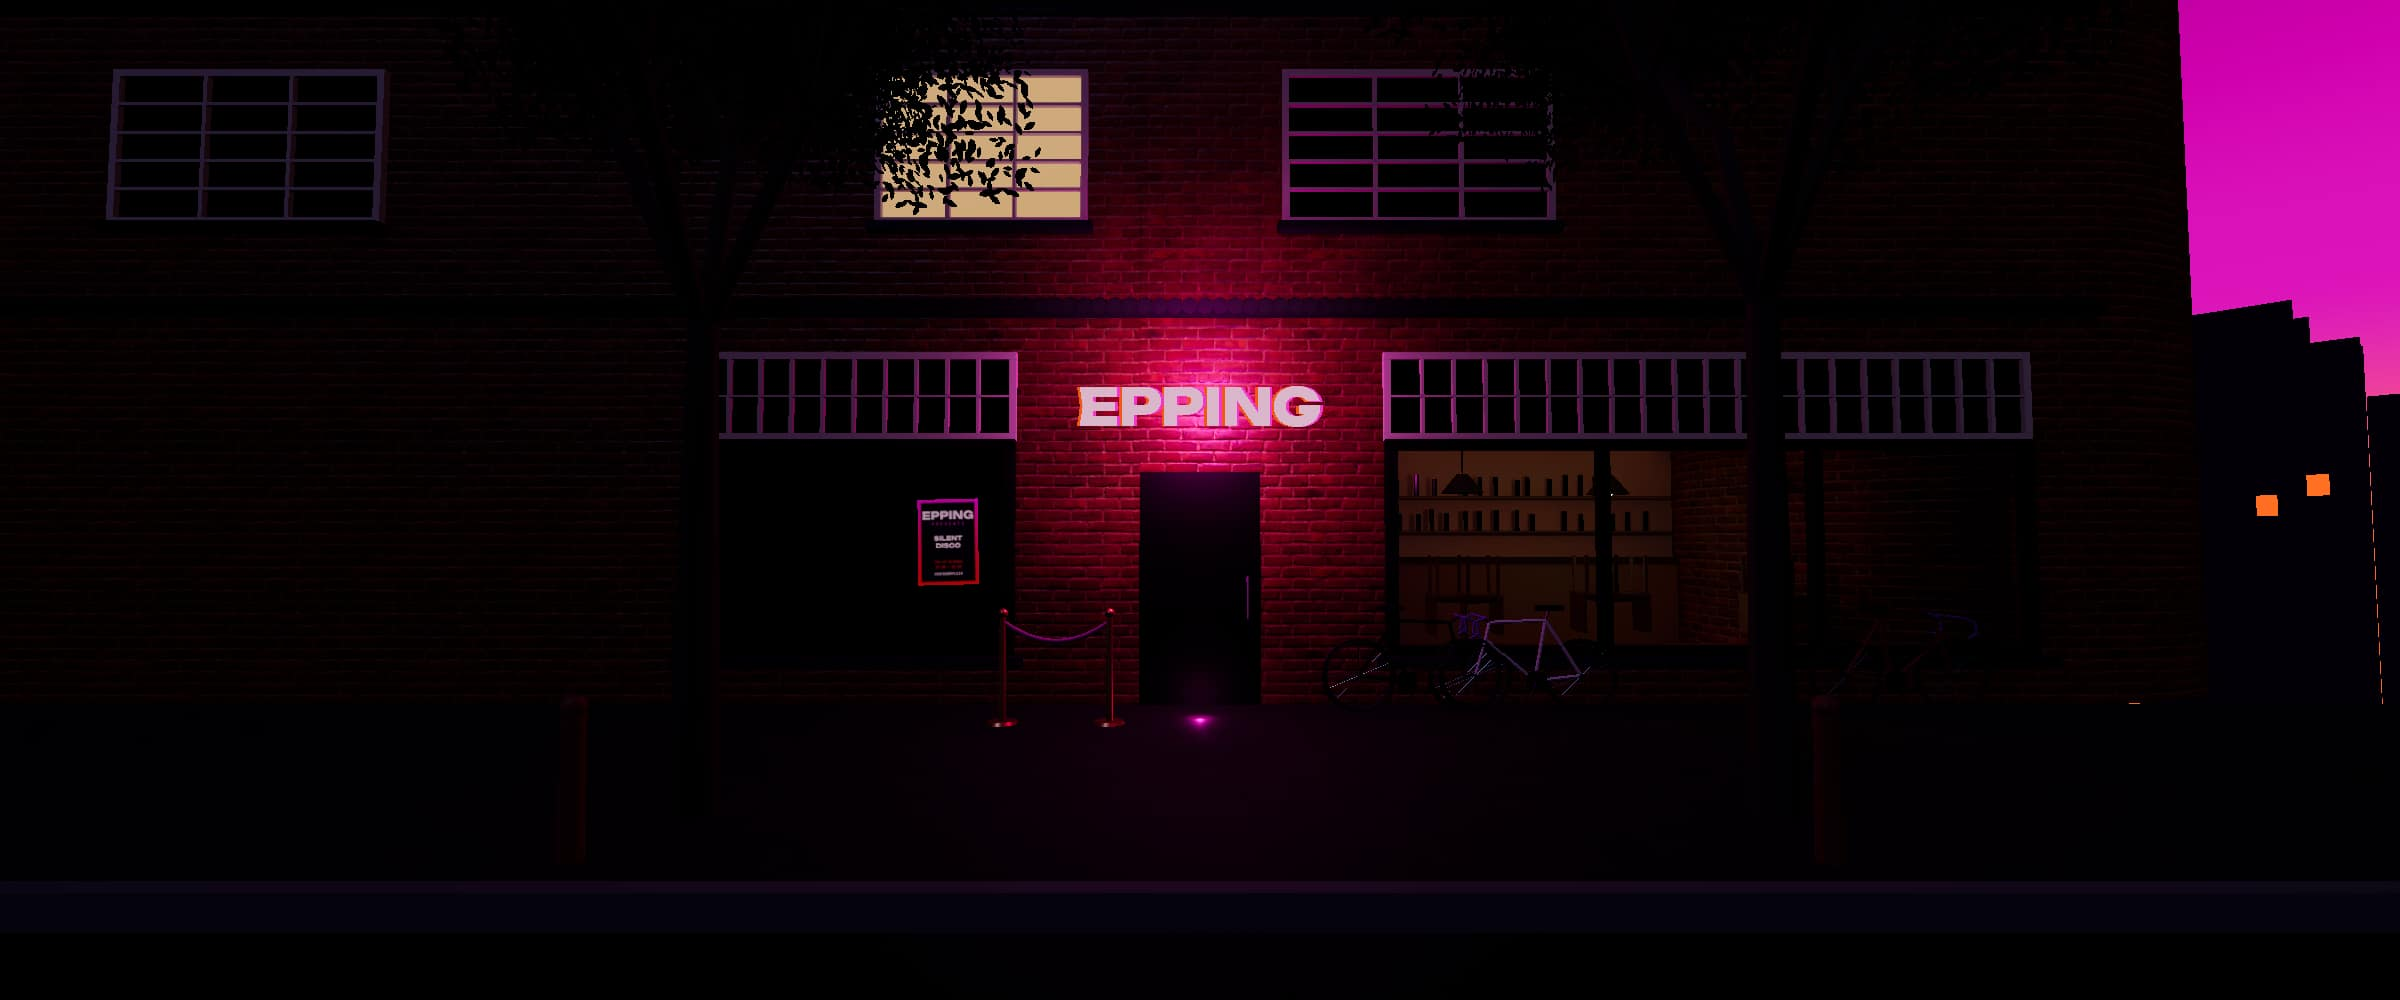
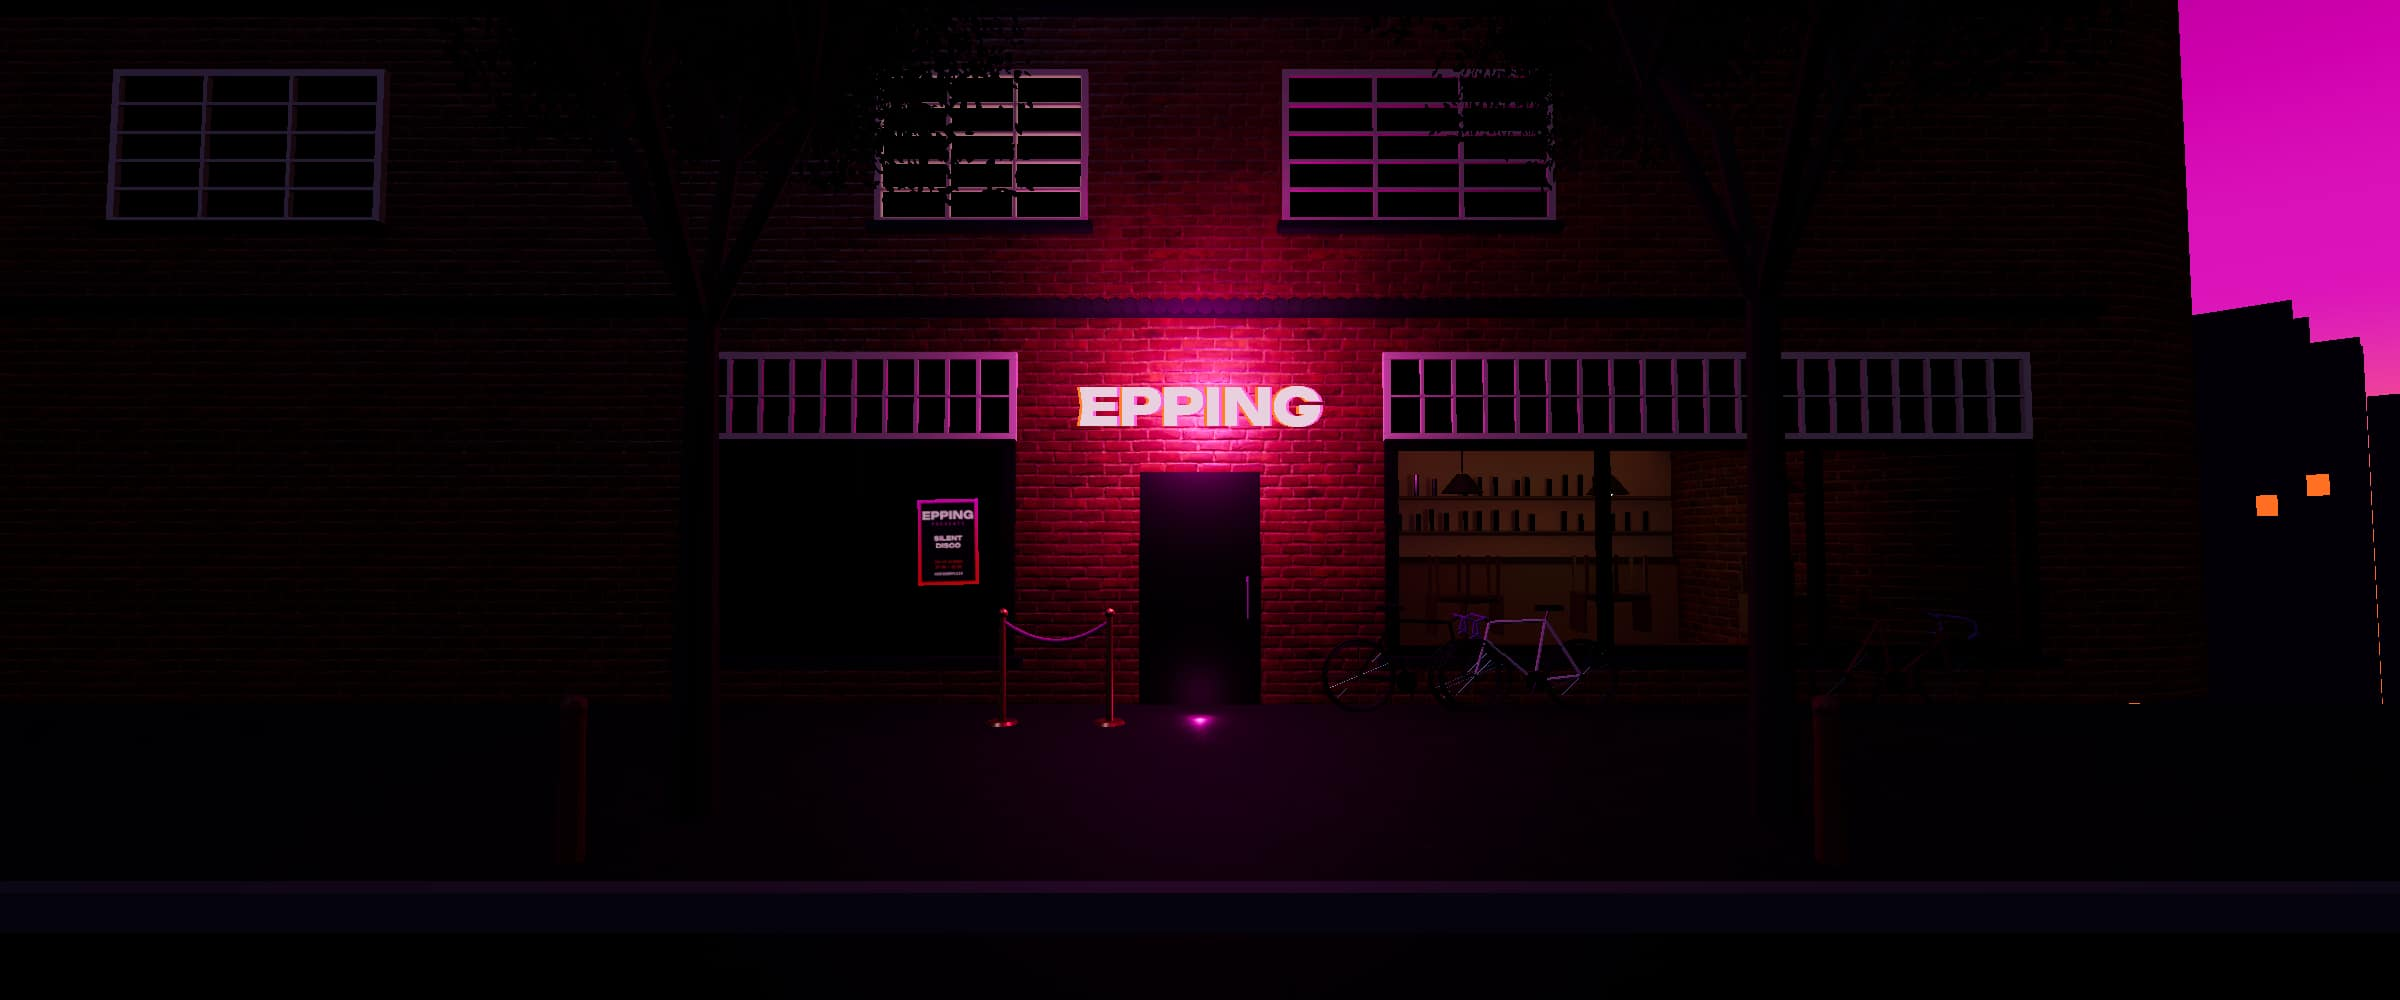
Street: upstairs window dark (it pulled the eye from the sign); stills re-rendered

Changed region(s): [[0.4062, 0.217, 0.5938, 0.527], [0.3438, 0.062, 0.4688, 0.217], [0.5312, 0.186, 0.5625, 0.217]]

diff --git a/src/entrance/world.ts b/src/entrance/world.ts
@@ -84,15 +84,16 @@ export interface World {
 // The street model carries geometry, UVs and baked lightmaps; textures are applied here by material name
 // (keeps the .glb small and avoids browsers that fail on embedded images).
 const LIGHTMAPS = ['brick', 'pavement', 'road', 'kerb', 'trim', 'tile', 'dark', 'bollard', 'bark', 'cafe_wall', 'cafe_panel', 'cafe_floor', 'cafe_wood', 'cafe_shade'];
-// glass: plain dark panes, no reflections (the user didn't like them); the café glass stays see-through
-const GLASS: Record<string, { opacity: number }> = { glass: { opacity: 1 }, shop_glass: { opacity: 1 }, cafe_glass: { opacity: 0.32 } };
+// glass: plain dark panes, no reflections (the user didn't like them); the café glass stays see-through.
+// The lit upstairs window (window_lit) is dark too: it pulled the eye away from the sign.
+const GLASS: Record<string, { opacity: number }> = { glass: { opacity: 1 }, shop_glass: { opacity: 1 }, window_lit: { opacity: 1 }, cafe_glass: { opacity: 0.32 } };
 const TEXTURES: Record<string, { map: string; normal?: string; rough?: string; tint: string }> = {
   brick: { map: 'red_brick_03_diff_web.jpg', normal: 'red_brick_03_nor_web.jpg', rough: 'red_brick_03_rough_web.jpg', tint: '#ffb08a' }, // orange-red Amsterdam School brick
   pavement: { map: 'concrete_pavement_02_diff_web.jpg', normal: 'concrete_pavement_02_nor_web.jpg', tint: '#55525a' },
   road: { map: 'asphalt_02_diff_web.jpg', normal: 'asphalt_02_nor_web.jpg', tint: '#3a383e' },
 };
 // night levels for the emissive parts (Blender's strengths are tuned for the bake, not for bloom)
-const GLOW: Record<string, number> = { window_lit: 0.5, lamp: 4 };
+const GLOW: Record<string, number> = { lamp: 4 };
 
 async function loadStreet(scene: THREE.Scene, glass: THREE.MeshStandardMaterial[]): Promise<void> {
   const loader = new GLTFLoader().setDRACOLoader(new DRACOLoader().setDecoderPath('draco/'));
@@ -117,7 +118,7 @@ async function loadStreet(scene: THREE.Scene, glass: THREE.MeshStandardMaterial[
     m.envMapIntensity = 0;
     const g = GLASS[m.name];
     if (g) {
-      m.color.set('#060508'); m.roughness = 0.1; m.metalness = 0; glass.push(m);
+      m.color.set('#060508'); m.roughness = 0.1; m.metalness = 0; m.emissiveIntensity = 0; glass.push(m);
       if (g.opacity < 1) { m.transparent = true; m.opacity = g.opacity; m.depthWrite = false; (o as THREE.Mesh).renderOrder = 2; }
     }
     m.needsUpdate = true;
